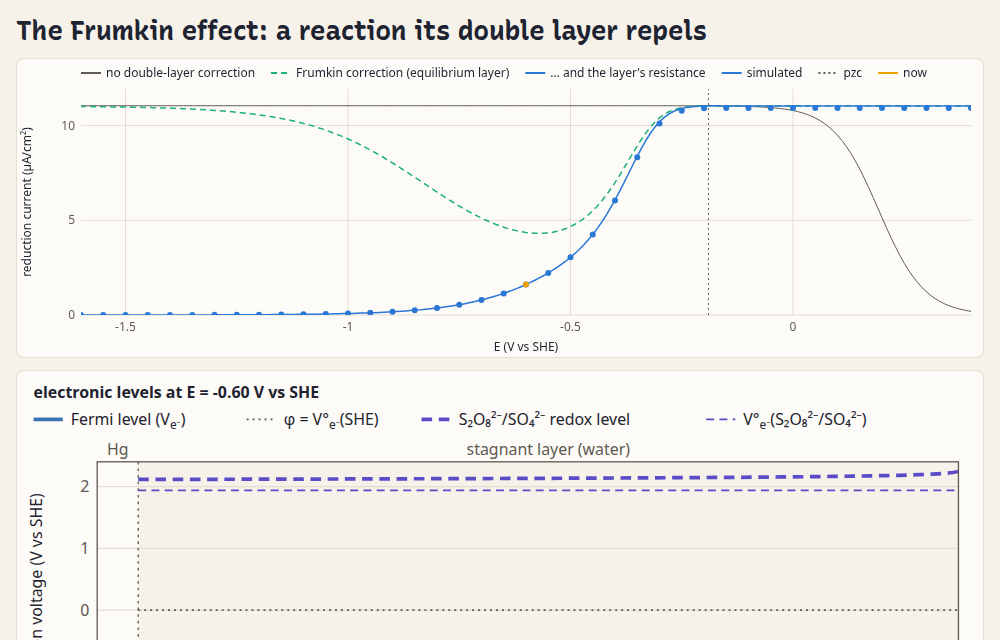
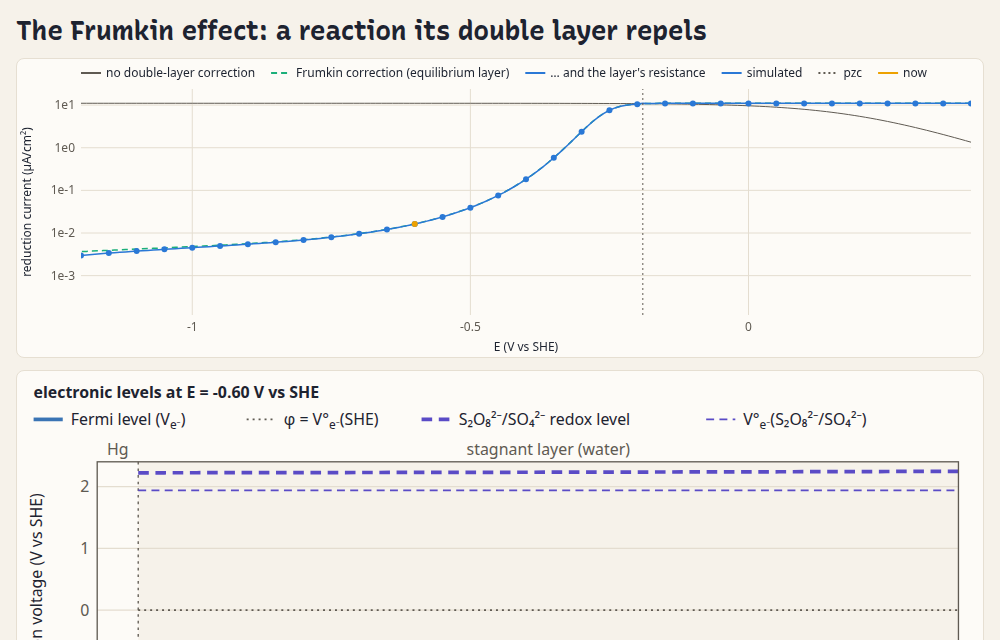
Frumkin page: kinetics a real reaction could have, and the ions' size as a control
An open-brief review found the page's Butler–Volmer rate at the plane reaching
1e4 m/s at -1.0 V and 1e8 m/s at -1.6 V, far past a collision-limited 45 m/s,
and both lines' shape past the minimum resting on it (the classic correction's
rise, the full line's endless fall). Now α_c = 0.25 (driftlet's α 0.125 for
the two-electron step), k⁰ refitted to the same bare half-wave, the window to
-1.2 V: k_f stays below 25 m/s, and the readout shows it. The layer's resistance
is then a trim at the far end (up to a third at -1.2 V), and whether the current
turns and rises again turns on the ions' size: plain Gouy–Chapman (0.1 nm) does,
0.7 nm crowding doesn't, so the size is a slider. The text says so, says that
most of K builds up within 2 Å of the plane, that the agreement checks the
solver and not the model against mercury, and cites the 2023 study of the
same experiment with transport and electron transfer at a distance. Log axis by
default. The test checks each new claim; halving the library's K still fails it.

diff --git a/demos/frumkin.html b/demos/frumkin.html
@@ -23,12 +23,13 @@
   <p>Peroxodisulfate (S₂O₈²⁻) reduced to sulfate at a mercury electrode in sodium fluoride, stirred as on a
     rotating disk: the steady current against the electrode's potential. Negative of the potential of zero
     charge (pzc) the electrode's charge turns negative and its double layer pushes the anion away from where
-    it reacts, so in dilute salt the current falls as the drive grows. Vary the salt and the potential. (More
-    about the model below.)</p>
+    it reacts, so in dilute salt the current falls as the drive grows. Vary the salt, the potential and the
+    ions' size. (More about the model below.)</p>
   <div class="controls">
     <label>NaF <input id="salt" type="range" min="-3" max="-0.5" step="0.25" value="-3"><output id="saltOut"></output></label>
-    <label>E <input id="E" type="range" min="-1.6" max="0.4" step="0.01" value="-0.6"><output id="EOut"></output></label>
-    <label><input id="log" type="checkbox"> log current</label>
+    <label>ion size <input id="a" type="range" min="0.1" max="0.8" step="0.1" value="0.7"><output id="aOut"></output></label>
+    <label>E <input id="E" type="range" min="-1.2" max="0.4" step="0.01" value="-0.6"><output id="EOut"></output></label>
+    <label><input id="log" type="checkbox" checked> log current</label>
     <span class="readout" id="status"></span>
   </div>
   <div class="grid">
@@ -39,43 +40,53 @@
     <div class="levels" id="layer"></div>
   </div>
   <h2>About this simulation</h2>
-  <p>Kryukova found this dip in 1949 at a dropping mercury electrode, and Frumkin and Florianovich explained it
-    two years later. The electron jumps to the reactant at the plane of closest approach, a few ångströms
-    from the metal, so only the drop across that inner (Stern) layer drives it. The diffuse layer outside sets
-    how much reactant is at the plane: Boltzmann's c e<sup>−zFψ/RT</sup>, with z = −2 and ψ the diffuse
-    layer's drop. Past the pzc, ψ turns negative, and the plane loses its reactant faster than the inner
-    layer's drop speeds the reaction up. More salt thins the diffuse layer and shrinks ψ, so the dip moves
-    to more negative potentials and fills in. (Positive of the pzc it works the other way: the layer draws
-    the anion in, and the wave sits at more positive potentials than the bare kinetics would put it.)</p>
-  <p>The dashed line is that classic correction. It takes the reactant at the plane to be in equilibrium with
-    the solution just outside the double layer, and past the dip it rises again as the drive keeps growing,
-    as real mercury electrodes do. The full line adds what that leaves out: the reactant has to cross the
-    diffuse layer against its field to reach the plane, and the layer resists it, by a length
-    K = ∫(c/c(x) − 1) dx that grows as fast as the plane empties (the readout above gives it). The stagnant
-    solution and the double layer then supply the plane in series, so deep in the dip the current is about
-    the limiting current times L/(L + K), with L the stagnant layer's 20 µm: every ion that gets through is
-    reduced, and the current keeps falling as K grows. The
-    simulation (points) follows the full line. On real
-    mercury the current does rise again; molecular models of the reaction (<a
-    href="https://istina.msu.ru/publications/article/2462311/">Nazmutdinov, Glukhov, Tsirlina and Petrii,
-    2002</a>) put that down to a reaction layer that thickens, with ions farther out in the diffuse layer
-    taking electrons too. Here the reactant reacts only at the plane.</p>
-  <p>The double layer is thousands of times thinner than the stagnant solution (0.5 to 10 nm against 20 µm), so
-    driftlet holds it below the grid: a Gouy–Chapman layer beside the face (<code>diffuse: { epsr }</code>),
-    its ions crowding on sites 0.7 nm across (Bikerman), in series with an inner layer of 17 µF/cm²
-    (constant here; mercury's is near that at negative charge). The pzc is mercury's in NaF, −0.19 V vs SHE.
-    The rate constant and α = 0.25 are illustrative, and the reactant is a trace, 10 µM. The theory lines
-    are worked out apart from the solver: the Frumkin correction with the same crowded layer, the layer's resistance by
-    quadrature, and diffusion across the stagnant layer. They leave out migration there (the electrode's
-    field in the solution holds the anion back too), which lowers the plateau by about 1% in the most dilute
-    salt; in the dip they agree with the simulation to 0.2%.</p>
+  <p>Kryukova found this inhibition in 1949 at a dropping mercury electrode, and Frumkin and Florianovich
+    explained it two years later. The electron jumps to the reactant at the plane of closest approach, a few
+    ångströms from the metal, so only the drop across that inner (Stern) layer drives it. The diffuse layer
+    outside sets how much reactant is at the plane: Boltzmann's c e<sup>−zFψ/RT</sup>, with z = −2 and ψ the
+    diffuse layer's drop. Past the pzc, ψ turns negative, and the plane loses its reactant faster than the
+    inner layer's drop speeds the reaction up. More salt thins the diffuse layer and shrinks ψ, so the fall
+    starts later and goes less deep. (Positive of the pzc it works the other way: the layer draws the anion
+    in, and the wave sits at more positive potentials than the bare kinetics would put it.)</p>
+  <p>The dashed line is that classic correction, which takes the reactant at the plane to be in equilibrium
+    with the solution just outside the double layer. The full line adds what that leaves out: the reactant
+    has to cross the diffuse layer against its field to reach the plane, and the layer resists it, by a
+    length K = ∫(c/c(x) − 1) dx that grows as the plane empties. That costs little until the reaction at
+    the plane is fast, its rate constant k<sub>f</sub> (in the readout) past about 1 m/s, so here it trims
+    the far end of the fall, by up to a third at −1.2 V. Most of K builds up within an ångström or two of the
+    plane, closer than the ion's own size, where a continuum picture is at its edge. The simulation (points)
+    follows the full line, to 0.1% where the current is down: that checks the solver against this model,
+    not the model against mercury.</p>
+  <p>On real mercury the current passes a minimum and rises again at more negative potentials. Here that
+    turns on the ions' size: with small sites (0.1 nm is all but the plain Gouy–Chapman layer of the textbook
+    correction) the current turns and rises within the window, while on sites 0.7 nm across the crowded
+    layer holds ψ more negative and it keeps falling. Real mercury has more in it than this model:
+    molecular models of the reaction (<a href="https://istina.msu.ru/publications/article/2462311/">Nazmutdinov,
+    Glukhov, Tsirlina and Petrii, 2002</a>) put the rise down to a reaction layer that thickens, with ions
+    farther out in the diffuse layer taking electrons too, and the rate depends on the cation, which can pair
+    with the anion. Here the reactant reacts only at the plane, and the ions are point charges on sites. A
+    2023 study, <a href="https://pubs.acs.org/doi/10.1021/acs.jpcc.3c01822">Double-layer inhibition of
+    peroxydisulfate reduction at mercury ultramicroelectrodes</a>, models the transport through the double
+    layer and the electron transfer at a distance together.</p>
+  <p>The double layer is thousands of times thinner than the stagnant solution (0.5 to 10 nm against 20 µm),
+    so driftlet holds it below the grid: a Gouy–Chapman layer beside the face (<code>diffuse: { epsr }</code>),
+    its ions crowding on sites of the chosen size (Bikerman), in series with an inner layer of 17 µF/cm²
+    (constant here; mercury's is near that at negative charge). The pzc is mercury's in NaF, −0.19 V vs SHE,
+    and the reactant is a trace, 10 µM. The kinetics are illustrative, chosen so the rate constant at the
+    plane stays below 25 m/s in this window (a collision-limited one, √(RT/2πM), is 45 m/s for S₂O₈²⁻): a
+    transfer coefficient of 0.25 for the current as a whole, a Tafel slope of 236 mV per decade (driftlet's
+    α = 0.125, for the two-electron step as written). A Butler–Volmer rate allowed to grow without limit over
+    3 V would change both lines' shape past the minimum. The theory lines are worked out apart from the
+    solver: the Frumkin correction with the same layer, the layer's resistance by quadrature, and diffusion
+    across the stagnant layer. They leave out migration there (the electrode's field in the solution holds
+    the anion back too), which lowers the plateau by about 1% in the most dilute salt.</p>
   <p>The level diagram has the mercury's Fermi level, the S₂O₈²⁻/SO₄²⁻ redox level and its standard level,
-    E° = 1.94 V from the μ° used here, and φ, which is the SHE's level here. The 2 V or more between the
-    Fermi level and the redox level is the overpotential this slow reaction needs. The inner layer's drop
-    and ψ sit between the mercury and the solution's first node, far too thin to see at this scale; the last
-    two panels open the diffuse part up, from the plane outward: φ across it, and each ion's concentration
-    there (log scale). The reactant's thin line is where Boltzmann would put it; the thick one is where it
-    is, drawn down by what the reaction takes.</p>
+    E° = 1.94 V from the μ° used here, and φ, which is the SHE's level here. The gap of over 2 V between the
+    Fermi level and the redox level is set partly by the oxidant's strength and partly by the trace of
+    sulfate (20 nM) in the bulk. The inner layer's drop and ψ sit between the mercury and the solution's
+    first node, far too thin to see at this scale; the last two panels open the diffuse part up, from the
+    plane outward: φ across it, and each ion's concentration there (log scale). The reactant's thin line is
+    where Boltzmann would put it; the thick one is where it is, drawn down by what the reaction takes.</p>
 </main>
 <script type="module">
 import { Device, FARADAY, GAS_CONSTANT, AVOGADRO, EPS0 } from '../src/index.js';
@@ -92,18 +103,21 @@ const ions = {
   'S2O82-': { z: -2, D: 1.145e-9, mu0: -1114900 },
   'SO42-': { z: -2, D: 1.065e-9, mu0: -744530 },
 };
-const names = Object.keys(ions), cMax = 1 / (AVOGADRO * 0.7e-9 * 0.7e-9 * 0.7e-9); // ions on sites 0.7 nm across
+const names = Object.keys(ions);
+let cMax; // the sites' concentration, for ions a across: setSite(a)
+const setSite = (a) => (cMax = 1 / (AVOGADRO * a * a * a));
+setSite(0.7e-9);
 const E0 = (ions['S2O82-'].mu0 - 2 * ions['SO42-'].mu0) / (2 * FARADAY); // 1.94 V
 const reduction = half('S2O82- + 2 e- = 2 SO42-');
-const C = 0.17, pzc = -0.19, k0 = 1e-16, alpha = 0.25, L = 20e-6, reactant = 0.01; // F/m², V vs SHE, mol/(m²·s), m, mol/m³
-const library = {
+const C = 0.17, pzc = -0.19, k0 = 2.5e-9, alpha = 0.125, L = 20e-6, reactant = 0.01; // F/m², V vs SHE, mol/(m²·s), m, mol/m³
+const libraryOf = () => ({
   species: [{ name: 'e-', z: -1 }, ...names.map((name) => ({ name, z: ions[name].z, cRef: 1000 }))],
   materials: {
     Hg: { conductor: { species: 'e-', conductivity: 1.04e6 } },
     // ε = 0: the solution is neutral on the grid, and the double layer is held below it
     water: { epsr: 0, species: Object.fromEntries(names.map((n) => [n, { D: ions[n].D, mu0: ions[n].mu0 }])), statistics: [{ type: 'lattice', species: names, cMax }] },
   },
-};
+});
 const bulkOf = (salt) => ({ 'Na+': salt + 2 * reactant + 4e-5, 'F-': salt, 'S2O82-': reactant, 'SO42-': 2e-5 });
 // The bath's terminal on the SHE scale: F⁻'s species voltage, less its μ° and activity (on the lattice).
 const she = (b) => -(ions['F-'].mu0 + RT * Math.log(b['F-'] / 1000 / (1 - Object.values(b).reduce((s, c) => s + c, 0) / cMax))) / FARADAY;
@@ -111,7 +125,7 @@ const electrode = (salt, E) => {
   const b = bulkOf(salt);
   return build({
     T,
-    library: [library],
+    library: [libraryOf()],
     stack: [
       ohmic(E, ['e-']), // the mercury's terminal
       layer('Hg', 1e-6),
@@ -186,18 +200,27 @@ function opened(sol) {
     x.push(x[k - 1] + ds * 0.5 * (1 / slope(c, t[k - 1]) + 1 / slope(c, t[k])));
     u.push(u[k - 1] + ((N / (ions['S2O82-'].D * c['S2O82-'])) * ds * 0.5 * (f(t[k - 1]) + f(t[k]))));
   }
-  return { x, phi: t.map((s) => s * VT * 1000), conc, t, drawn: t.map((s, k) => conc('S2O82-', s) * u[k]), u, c, d, N };
+  return { x, phi: t.map((s) => s * VT * 1000), conc, t, drawn: t.map((s, k) => conc('S2O82-', s) * u[k]), u, c, d, N, K: resistance(c, sp) };
+}
+
+// The reaction's rate constant at the plane (m/s): how fast it takes the reactant that gets there.
+function planeRate(sol) {
+  const g = sol.region.indexOf(1), s = sol.interfaces[0].diffuse.right.psi / VT, E = sol.terminals.left.V;
+  const c = Object.fromEntries(names.map((n) => [n, sol.c[n][g]]));
+  const vacancies = (1 - Object.values(c).reduce((a, x) => a + x, 0) / cMax) / crowd(c, s);
+  return (k0 / 1000) * vacancies ** alpha * Math.exp((-2 * alpha * (E - s * VT - E0)) / VT);
 }
 
 // (All above runs without a page: test/demos.test.js checks this theory against the simulation.)
 
-const salt = document.getElementById('salt'), Ein = document.getElementById('E'), logy = document.getElementById('log');
-for (const el of [salt, Ein]) fromQuery(el);
+const salt = document.getElementById('salt'), size = document.getElementById('a'), Ein = document.getElementById('E'), logy = document.getElementById('log');
+for (const el of [salt, size, Ein]) fromQuery(el);
 const cs = () => 1000 * 10 ** +salt.value; // mol/m³ of NaF
 const jlim = (2 * FARADAY * ions['S2O82-'].D * reactant) / L; // the limiting current, A/m²
-const Es = Array.from({ length: 41 }, (_, k) => 0.4 - 0.05 * k), Et = Array.from({ length: 201 }, (_, k) => 0.4 - 0.01 * k);
+const Es = Array.from({ length: 33 }, (_, k) => 0.4 - 0.05 * k), Et = Array.from({ length: 161 }, (_, k) => 0.4 - 0.01 * k);
 let dev, curves;
 function rebuild() {
+  setSite(+size.value * 1e-9);
   dev = new Device(electrode(cs(), Es[0]));
   const sim = Es.map((E) => (dev.set({ contacts: { left: { V: E } } }), -dev.solve().terminals.left.current));
   curves = { sim, full: Et.map((E) => theory(cs(), E)), classic: Et.map((E) => theory(cs(), E, 'classic')), none: Et.map((E) => theory(cs(), E, 'none')) };
@@ -205,6 +228,7 @@ function rebuild() {
 }
 const labels = () => {
   document.getElementById('saltOut').textContent = `${+(cs() / 1000).toPrecision(2)} M`;
+  document.getElementById('aOut').textContent = `${(+size.value).toFixed(1)} nm`;
   document.getElementById('EOut').textContent = `${(+Ein.value).toFixed(2)} V vs SHE`;
 };
 const uAcm2 = (j) => j * 100; // A/m² to µA/cm²
@@ -218,7 +242,7 @@ function update() {
   const K = resistance(lay.c, lay.d.psi / VT);
   document.getElementById('status').textContent =
     `${uAcm2(j).toPrecision(3)} µA/cm² of ${uAcm2(jlim).toPrecision(3)} at the limit · ψ ${(lay.d.psi * 1000).toFixed(0)} mV · ` +
-    `S₂O₈²⁻ at the plane ${(lay.d.plane['S2O82-'] / reactant).toExponential(1)} of the bulk's (Boltzmann's ${(lay.conc('S2O82-', lay.d.psi / VT) / reactant).toExponential(1)}) · the layer's resistance K ${K < 1e-6 ? `${(K * 1e9).toPrecision(2)} nm` : K < 1e-3 ? `${(K * 1e6).toPrecision(2)} µm` : `${(K * 1e3).toPrecision(2)} mm`}`;
+    `S₂O₈²⁻ at the plane ${(lay.d.plane['S2O82-'] / reactant).toExponential(1)} of the bulk's (Boltzmann's ${(lay.conc('S2O82-', lay.d.psi / VT) / reactant).toExponential(1)}) · k_f there ${planeRate(sol).toPrecision(2)} m/s · the layer's resistance K ${K < 1e-6 ? `${(K * 1e9).toPrecision(2)} nm` : K < 1e-3 ? `${(K * 1e6).toPrecision(2)} µm` : `${(K * 1e3).toPrecision(2)} mm`}`;
   const log = logy.checked, top = uAcm2(jlim) * 1.08;
   chart(document.getElementById('iv'), {
     xlabel: 'E (V vs SHE)', ylabel: 'reduction current (µA/cm²)', logy: log, ylim: log ? [top * 1e-5, top * 2] : [0, top],
@@ -275,8 +299,10 @@ const later = (fn) => () => {
 };
 Ein.addEventListener('input', later(update));
 logy.addEventListener('change', update);
-salt.addEventListener('change', rebuild);
-salt.addEventListener('input', labels);
+for (const el of [salt, size]) {
+  el.addEventListener('change', rebuild);
+  el.addEventListener('input', labels);
+}
 addEventListener('resize', update);
 rebuild();
 showCode();

diff --git a/test/demos.test.js b/test/demos.test.js
@@ -120,38 +120,50 @@ async function pageTheory(page, names) {
 
 test("demos/frumkin.html: its theory is the simulation's, as the page says", async () => {
   const { Device, FARADAY } = await import('../src/index.js');
-  const { electrode, theory, resistance, opened, ions, reactant, L, VT } = await pageTheory('frumkin.html', ['electrode', 'theory', 'resistance', 'opened', 'ions', 'reactant', 'L', 'VT']);
+  const { electrode, theory, opened, planeRate, setSite, ions, reactant, L } = await pageTheory('frumkin.html', ['electrode', 'theory', 'opened', 'planeRate', 'setSite', 'ions', 'reactant', 'L']);
   const jlim = (2 * FARADAY * ions['S2O82-'].D * reactant) / L;
-  for (const salt of [1, 10, 100]) {
-    const dev = new Device(electrode(salt, 0.4));
-    let dip = 0, plateau = 0, classic = 0;
-    for (let k = 0; k <= 40; k++) {
-      const E = 0.4 - 0.05 * k;
-      dev.set({ contacts: { left: { V: E } } });
-      const sol = dev.solve(), j = -sol.terminals.left.current, th = theory(salt, E);
-      assert.ok(sol.converged && sol.warnings.length === 0, `${salt} mM, ${E} V: ${sol.warnings.join(' ')}`);
-      if (j < 0.5 * jlim) dip = Math.max(dip, Math.abs(j / th - 1));
-      plateau = Math.max(plateau, Math.abs(j - th) / jlim);
-      classic = Math.max(classic, Math.abs(Math.log(j / theory(salt, E, 'classic'))));
+  const Es = Array.from({ length: 33 }, (_, k) => 0.4 - 0.05 * k);
+  const runs = {};
+  for (const a of [0.1, 0.7]) {
+    setSite(a * 1e-9);
+    for (const salt of [1, 10, 100, 316]) {
+      const dev = new Device(electrode(salt, 0.4));
+      let dip = 0, plateau = 0, kmax = 0, trim = 1, early = 0;
+      const j = Es.map((E) => {
+        dev.set({ contacts: { left: { V: E } } });
+        const sol = dev.solve(), i = -sol.terminals.left.current, th = theory(salt, E), cl = theory(salt, E, 'classic');
+        assert.ok(sol.converged && sol.warnings.length === 0, `${a} nm, ${salt} mM, ${E} V: ${sol.warnings.join(' ')}`);
+        if (i < 0.5 * jlim) dip = Math.max(dip, Math.abs(i / th - 1));
+        plateau = Math.max(plateau, Math.abs(i - th) / jlim);
+        kmax = Math.max(kmax, planeRate(sol));
+        trim = Math.min(trim, th / cl);
+        if (planeRate(sol) < 0.1) early = Math.max(early, Math.abs(th / cl - 1));
+        return i;
+      });
+      runs[`${a} ${salt}`] = j;
+      // "to 0.1% where the current is down", "the plateau by about 1%", "below 25 m/s in this window"
+      assert.ok(dip < 1e-3 && plateau < 1.2e-2 && kmax < 25, `${a} nm, ${salt} mM: ${dip} in the dip, ${plateau} of the limit, k_f up to ${kmax} m/s`);
+      // "costs little until ... k_f past about 1 m/s" (under 3% while it's below 0.1 m/s), "by up to a third at −1.2 V"
+      assert.ok(early < 3e-2 && trim > 0.66, `${a} nm, ${salt} mM: the layer's resistance ${early} while k_f < 0.1 m/s, down to ${trim} of the classic`);
     }
-    // "in the dip they agree with the simulation to 0.2%", "the plateau by about 1%"
-    assert.ok(dip < 2e-3 && plateau < 1.2e-2, `${salt} mM: ${dip} in the dip, ${plateau} of the limit`);
-    // (and the check can tell: the correction without the layer's resistance is far off, in dilute salt)
-    if (salt < 100) assert.ok(classic > Math.log(2), `${salt} mM: the classic correction within ${classic}`);
   }
-  // Deep in the dip, the limiting current times L/(L + K); and the plane's level is what K says it is.
+  // "with small sites the current turns and rises within the window, while on sites 0.7 nm across ... it keeps falling"
+  const past = (j) => j.filter((_, k) => Es[k] < -0.3);
+  const small = past(runs['0.1 1']), big = past(runs['0.7 1']);
+  assert.ok(small.at(-1) > 1.5 * Math.min(...small), `0.1 nm: ${Math.min(...small)} at the least, ${small.at(-1)} at −1.2 V`);
+  assert.ok(big.every((v, k) => k === 0 || v < big[k - 1]), `0.7 nm: ${big}`);
+  // "Most of K builds up within an ångström or two of the plane"; and the plane's level is what K says it is.
+  setSite(0.7e-9);
   const dev = new Device(electrode(1, 0.4));
-  for (let E = 0.4; E > -1.2; E -= 0.05) {
+  for (const E of Es) {
     dev.set({ contacts: { left: { V: E } } });
-    dev.solve();
+    const sol = dev.solve();
+    if (E > -0.95) continue;
+    const lay = opened(sol), u0 = lay.u[0], k2 = lay.x.findIndex((x) => x > 2e-10);
+    const far = u0 + (lay.N * lay.K) / (ions['S2O82-'].D * lay.c['S2O82-']);
+    assert.ok((lay.u[k2] - u0) / (lay.u.at(-1) - u0) > 0.5, `${E} V: ${(lay.u[k2] - u0) / (lay.u.at(-1) - u0)} of K within 2 Å`);
+    assert.ok(Math.abs(far - 1) < 1e-6, `${E} V: the plane's level ${u0}, and back out ${far}`);
   }
-  dev.set({ contacts: { left: { V: -1.2 } } });
-  const sol = dev.solve(), lay = opened(sol), K = resistance(lay.c, lay.d.psi / VT), j = -sol.terminals.left.current;
-  assert.ok(Math.abs(j / jlim / (L / (L + K)) - 1) < 1e-3, `−1.2 V: ${j / jlim} of the limit, L/(L + K) ${L / (L + K)}`);
-  // (the plane's level, as reported, and the page's own K: the edge's level, 1, from the far side)
-  const far = lay.u[0] + (lay.N * K) / (ions['S2O82-'].D * lay.c['S2O82-']);
-  assert.ok(lay.u[0] < 1e-3 && Math.abs(far - 1) < 1e-6, `the plane's level ${lay.u[0]}, and back out ${far}`);
-  assert.ok(Math.abs(lay.u.at(-1) - 1) < 2e-2, `the drawn profile, out at ${lay.x.at(-1)} m: ${lay.u.at(-1)}`);
 });
 
 test("demos/steps.html: Cottrell's and Sand's theory is the simulation's, as the page says", async () => {
